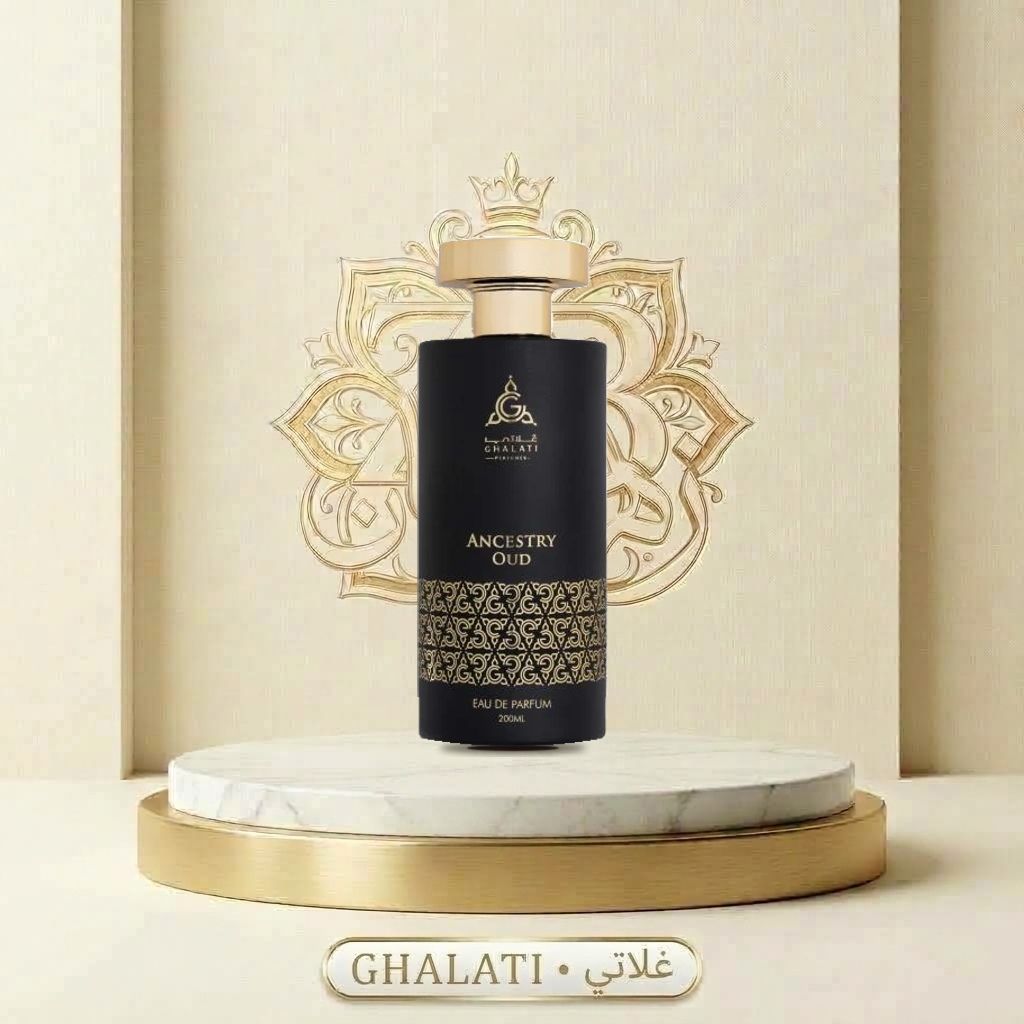
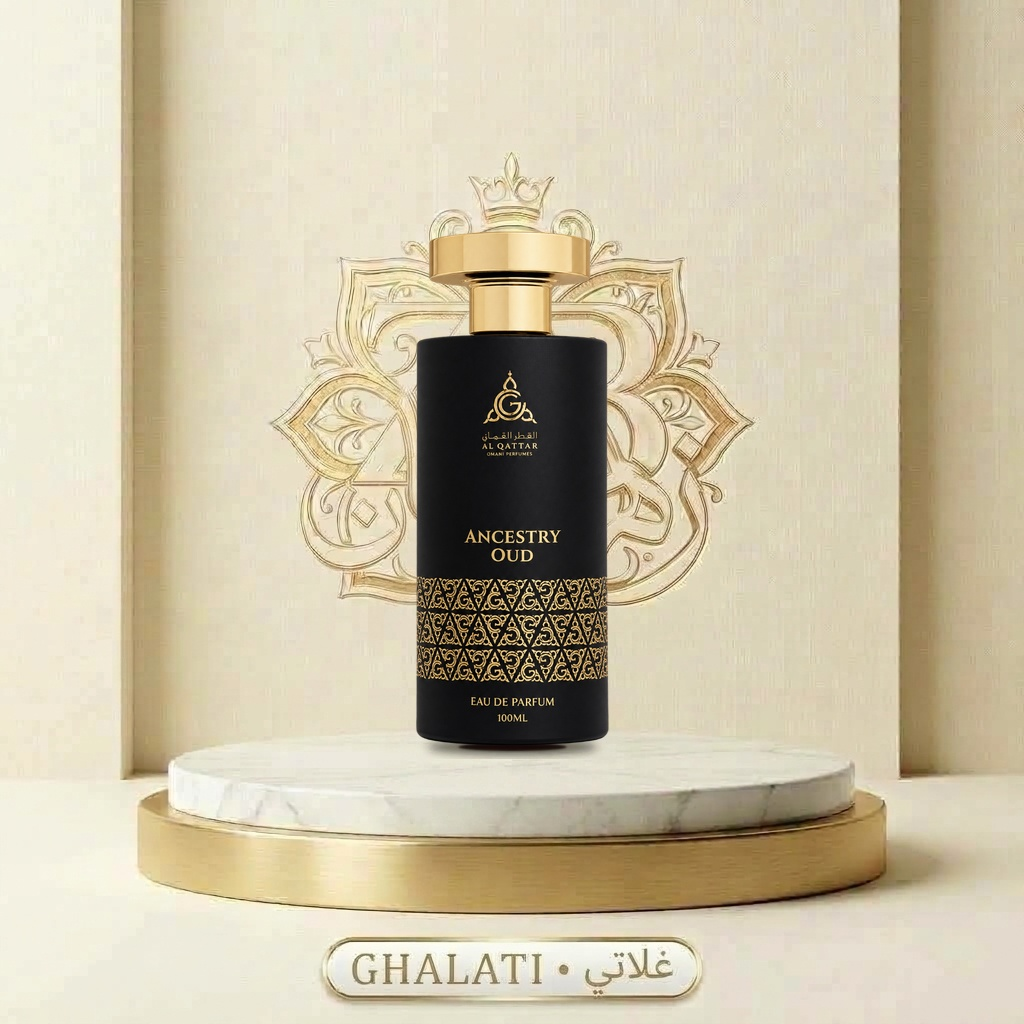
feat: upgrade Ancestry Oud with master 100ml Al Qattar flacon, enhanced marble pedestal showcase, and multi-edition gallery

diff --git a/scripts/build_ancestry_oud.js b/scripts/build_ancestry_oud.js
@@ -1,0 +1,76 @@
+const sharp = require('sharp');
+const fs = require('fs');
+
+async function processAncestryOud() {
+  const inputPng = 'C:/Users/ECC/.gemini/antigravity/brain/cae38557-fc4c-4ef1-b1c0-cb4370487592/.user_uploaded/media_1791371514466.png';
+  
+  // 1. Backup old 200ml flacon
+  if (fs.existsSync('public/images/original_ancestry-oud.png') && !fs.existsSync('public/images/original_ancestry-oud_200ml.png')) {
+    fs.copyFileSync('public/images/original_ancestry-oud.png', 'public/images/original_ancestry-oud_200ml.png');
+    console.log('Backed up original 200ml flacon');
+  }
+
+  // 2. Trim transparent borders of the new 100ml master flacon
+  const trimmed = await sharp(inputPng)
+    .trim()
+    .toBuffer({ resolveWithObject: true });
+
+  fs.writeFileSync('public/images/original_ancestry-oud.png', trimmed.data);
+  console.log('Saved trimmed original_ancestry-oud.png, size:', trimmed.info.width, 'x', trimmed.info.height);
+
+  // 3. Resize for podium composite (height 515)
+  const targetH = 515;
+  const resized = await sharp(trimmed.data)
+    .resize({ height: targetH, kernel: 'lanczos3' })
+    .toBuffer({ resolveWithObject: true });
+
+  const bW = resized.info.width;
+  const bH = resized.info.height;
+  const left = Math.round((1024 - bW) / 2);
+  const baseContactY = 746;
+  const top = baseContactY - bH;
+
+  const shadowW = bW + 60;
+  const shadowH = 30;
+  const shadowSvg = `
+  <svg width="${shadowW}" height="${shadowH}" xmlns="http://www.w3.org/2000/svg">
+    <defs>
+      <filter id="f1" x="-20%" y="-20%" width="140%" height="140%">
+        <feGaussianBlur stdDeviation="4.0" />
+      </filter>
+      <filter id="f2" x="-20%" y="-20%" width="140%" height="140%">
+        <feGaussianBlur stdDeviation="1.5" />
+      </filter>
+    </defs>
+    <ellipse cx="${shadowW / 2}" cy="15" rx="${bW * 0.44}" ry="8" fill="#1b1209" opacity="0.65" filter="url(#f1)" />
+    <ellipse cx="${shadowW / 2}" cy="15" rx="${bW * 0.28}" ry="4" fill="#080503" opacity="0.9" filter="url(#f2)" />
+  </svg>
+  `;
+  const shadowBuf = await sharp(Buffer.from(shadowSvg)).png().toBuffer();
+
+  const masterBg = 'public/images/ghalati_master_bg.jpg';
+  await sharp(masterBg)
+    .composite([
+      { input: shadowBuf, left: Math.round(left - 30), top: baseContactY - 14 },
+      { input: resized.data, left: left, top: top }
+    ])
+    .jpeg({ quality: 95 })
+    .toFile('public/images/ghalati_ancestry-oud.jpg');
+
+  console.log('Successfully composited and saved public/images/ghalati_ancestry-oud.jpg');
+
+  // 4. Update perfumes.json
+  const perfumes = JSON.parse(fs.readFileSync('public/data/perfumes.json', 'utf8'));
+  const pAncestry = perfumes.find(p => p.id === 'ancestry-oud');
+  if (pAncestry) {
+    pAncestry.image = 'images/ghalati_ancestry-oud.jpg';
+    pAncestry.originalImage = 'images/original_ancestry-oud.png';
+    pAncestry.galleryImages = ['images/original_ancestry-oud_200ml.png'];
+    pAncestry.specs.size = '100 مل / 200 مل';
+    pAncestry.specsEn.size = '100ml / 200ml';
+  }
+  fs.writeFileSync('public/data/perfumes.json', JSON.stringify(perfumes, null, 2), 'utf8');
+  console.log('Updated perfumes.json for ancestry-oud');
+}
+
+processAncestryOud().catch(err => console.error(err));
